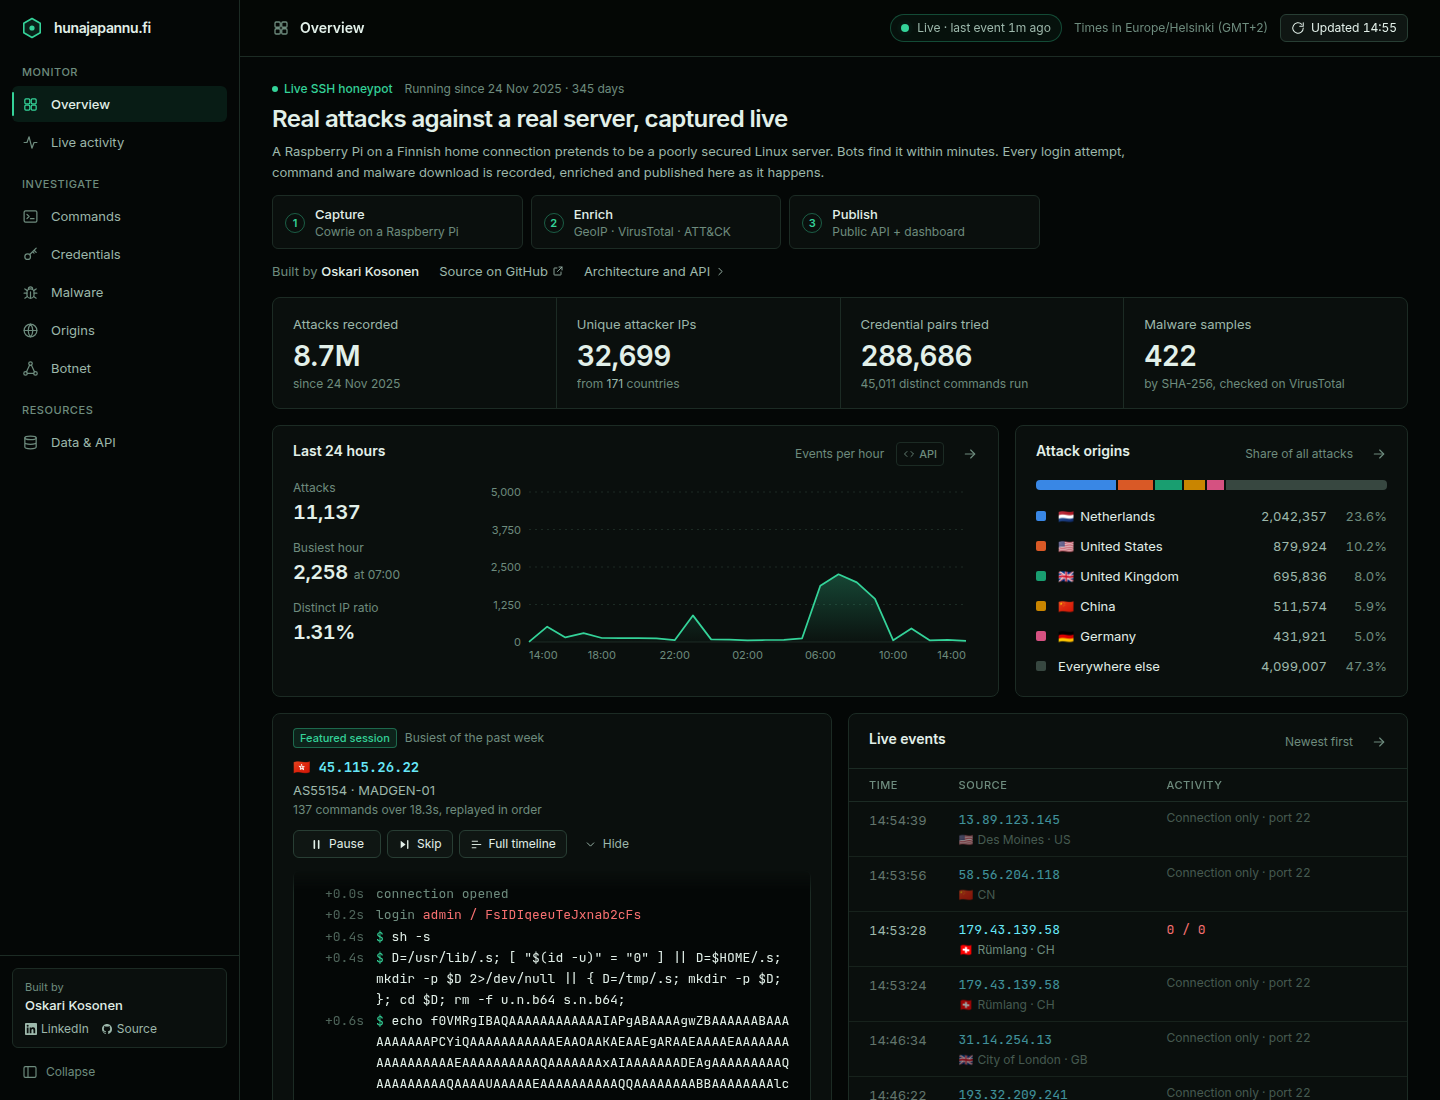
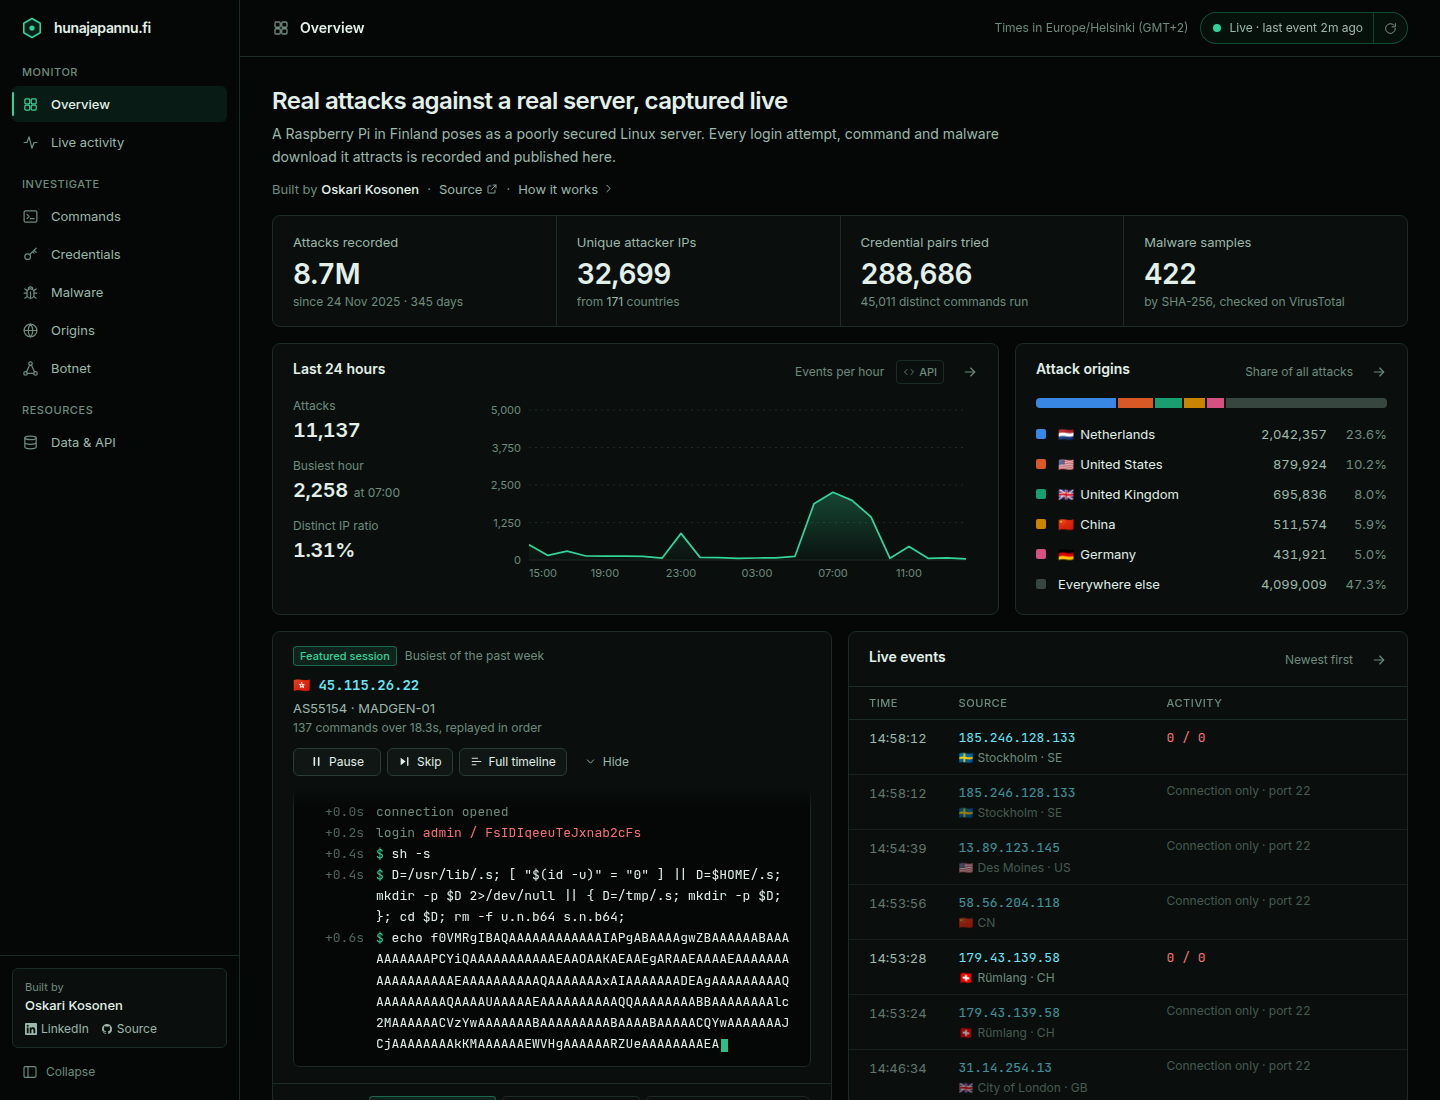
One live control in the top bar, and a three-line overview intro
- The status pill and the "Updated 14:42" button were two clocks
  answering the same question. They are now one control: the pill says
  how fresh the data is and carries an icon-only refresh, with the last
  refresh time on its tooltip.
- The overview intro drops everything that repeated something else on
  the same screen: the "Live SSH honeypot" eyebrow (the top bar says
  live), the "running since" line (now on the Attacks recorded tile), and
  the three pipeline cards (the Architecture panel shows the pipeline).
  What is left is a title, one sentence and a byline.

diff --git a/frontend/src/components/OverviewHero.jsx b/frontend/src/components/OverviewHero.jsx
@@ -1,98 +1,52 @@
 import { memo } from "react";
 import { ChevronRightIcon, ExternalIcon } from "./ui/icons";
-import { formatLongDate, formatNumber } from "../lib/format";
 
 /**
- * What this page is, in one screen.
+ * What this page is, said once.
  *
- * The site is linked from a CV, so the first visit is often someone who has
- * never heard of Cowrie and has thirty seconds. The page header says what it
- * is and who built it; the KPI strip under it gives the all-time scale; the
- * panels below are the live detail.
+ * The site is linked from a CV, so the first visitor may never have heard of
+ * a honeypot. A title, one sentence and a byline are enough to orient them;
+ * the KPI strip below gives the scale and the live status sits in the top
+ * bar. An earlier version also had an eyebrow, a "running since" line and a
+ * three-step pipeline here, all of which repeated something said elsewhere
+ * on the same screen.
  */
 
-const STEPS = [
-  { n: "1", title: "Capture", detail: "Cowrie on a Raspberry Pi" },
-  { n: "2", title: "Enrich", detail: "GeoIP · VirusTotal · ATT&CK" },
-  { n: "3", title: "Publish", detail: "Public API + dashboard" },
-];
+const LINK = "inline-flex items-center gap-1 text-fg-muted hover:text-fg transition-colors";
 
-const LINK = "inline-flex items-center gap-1 text-sm text-fg-muted hover:text-fg transition-colors";
-
-const daysSince = (ts) => {
-  const t = ts ? Date.parse(ts) : NaN;
-  return Number.isFinite(t) ? Math.max(1, Math.floor((Date.now() - t) / 86_400_000)) : null;
-};
-
-const OverviewHero = ({ summary, onNavigate }) => {
-  const days = daysSince(summary?.firstEventAt);
-
-  return (
-    <section aria-labelledby="overview-title">
-      <div className="min-w-0">
-        <div className="flex flex-wrap items-center gap-x-3 gap-y-1 text-xs text-fg-subtle">
-          <span className="inline-flex items-center gap-1.5 font-medium text-accent">
-            <span className="h-1.5 w-1.5 rounded-full bg-accent" />
-            Live SSH honeypot
-          </span>
-          {summary?.firstEventAt && (
-            <span>
-              Running since {formatLongDate(summary.firstEventAt)}
-              {days ? ` · ${formatNumber(days)} days` : ""}
-            </span>
-          )}
-        </div>
-
-        <h2 id="overview-title" className="mt-1.5 text-xl font-semibold tracking-tight text-fg sm:text-2xl">
-          Real attacks against a real server, captured live
-        </h2>
-        <p className="mt-1.5 max-w-4xl text-sm leading-relaxed text-fg-muted">
-          A Raspberry Pi on a Finnish home connection pretends to be a poorly secured Linux server. Bots find it
-          within minutes. Every login attempt, command and malware download is recorded, enriched and published
-          here as it happens.
-        </p>
-      </div>
-
-      <ol className="mt-3 grid max-w-3xl grid-cols-3 gap-2" aria-label="How it works">
-        {STEPS.map((s) => (
-          <li
-            key={s.n}
-            className="flex items-center gap-2 rounded-md border border-line bg-surface px-2.5 py-2 sm:gap-2.5 sm:px-3"
-          >
-            <span className="mt-px flex h-5 w-5 shrink-0 items-center justify-center rounded-full border border-accent/40 text-2xs font-semibold text-accent">
-              {s.n}
-            </span>
-            <span className="min-w-0">
-              <span className="block text-sm font-medium text-fg">{s.title}</span>
-              <span className="hidden truncate text-xs text-fg-subtle sm:block">{s.detail}</span>
-            </span>
-          </li>
-        ))}
-      </ol>
-
-      <div className="mt-3 flex flex-wrap items-center gap-x-5 gap-y-1.5">
-        <span className="text-sm text-fg-subtle">
-          Built by{" "}
-          <a
-            className="font-medium text-fg hover:text-accent transition-colors"
-            href="https://www.linkedin.com/in/oskari-kosonen-ba2589294/"
-            target="_blank"
-            rel="noreferrer"
-          >
-            Oskari Kosonen
-          </a>
-        </span>
-        <a className={LINK} href="https://github.com/OskariKosonen/hunajapannu" target="_blank" rel="noreferrer">
-          Source on GitHub
-          <ExternalIcon size={12} />
+const OverviewHero = ({ onNavigate }) => (
+  <section aria-labelledby="overview-title" className="pt-1">
+    <h2 id="overview-title" className="text-xl font-semibold tracking-tight text-fg sm:text-2xl">
+      Real attacks against a real server, captured live
+    </h2>
+    <p className="mt-1.5 max-w-3xl text-sm leading-relaxed text-fg-muted sm:text-base sm:leading-relaxed">
+      A Raspberry Pi in Finland poses as a poorly secured Linux server. Every login attempt, command and malware
+      download it attracts is recorded and published here.
+    </p>
+    <div className="mt-2.5 flex flex-wrap items-center gap-x-2 gap-y-1 text-sm text-fg-subtle">
+      <span>
+        Built by{" "}
+        <a
+          className="font-medium text-fg hover:text-accent transition-colors"
+          href="https://www.linkedin.com/in/oskari-kosonen-ba2589294/"
+          target="_blank"
+          rel="noreferrer"
+        >
+          Oskari Kosonen
         </a>
-        <button type="button" className={LINK} onClick={() => onNavigate("data")}>
-          Architecture and API
-          <ChevronRightIcon size={13} />
-        </button>
-      </div>
-    </section>
-  );
-};
+      </span>
+      <span aria-hidden="true">·</span>
+      <a className={LINK} href="https://github.com/OskariKosonen/hunajapannu" target="_blank" rel="noreferrer">
+        Source
+        <ExternalIcon size={12} />
+      </a>
+      <span aria-hidden="true">·</span>
+      <button type="button" className={LINK} onClick={() => onNavigate("data")}>
+        How it works
+        <ChevronRightIcon size={13} />
+      </button>
+    </div>
+  </section>
+);
 
 export default memo(OverviewHero);

diff --git a/frontend/src/components/AppHeader.jsx b/frontend/src/components/AppHeader.jsx
@@ -1,6 +1,5 @@
-import { memo } from "react";
+import { memo, useState } from "react";
 import Tabs from "./ui/Tabs";
-import Button from "./ui/Button";
 import { LogoMark, RefreshIcon } from "./ui/icons";
 import { cx } from "../lib/cx";
 import { useNow } from "../hooks/useRefresh";
@@ -11,7 +10,16 @@ import { TIME_ZONE, TIME_ZONE_LABEL, formatClock, formatRelative } from "../lib/
 // for four days while every service reported healthy.
 const STALE_AFTER_MS = 10 * 60 * 1000;
 
-const StatusPill = ({ lastEventAt, now }) => {
+/**
+ * Freshness and refresh as one control.
+ *
+ * These were a status pill ("Live · last event 3m ago") beside a button
+ * reading "Updated 14:42": two clocks answering the same question. The pill
+ * says how fresh the data is; the refresh is an icon on the end of it, and
+ * when the page last refreshed is on its tooltip for whoever wants it.
+ */
+const LiveControl = ({ lastEventAt, lastUpdated, onRefresh, now }) => {
+  const [spinning, setSpinning] = useState(false);
   const t = lastEventAt ? new Date(lastEventAt).getTime() : NaN;
   const known = Number.isFinite(t);
   const stale = known && now - t > STALE_AFTER_MS;
@@ -22,36 +30,56 @@ const StatusPill = ({ lastEventAt, now }) => {
       ? `No events for ${formatRelative(lastEventAt, now).replace(" ago", "")}`
       : `Live · last event ${formatRelative(lastEventAt, now)}`;
 
+  const refreshTitle = lastUpdated
+    ? `Refresh now · last refreshed ${formatClock(lastUpdated)}, automatic every 2 minutes`
+    : "Refresh now";
+
   return (
-    <span
-      role="status"
-      title={known ? `Newest event: ${new Date(t).toISOString()}` : undefined}
+    <div
       className={cx(
-        "inline-flex h-7 items-center gap-2 rounded-full border px-2.5 text-xs whitespace-nowrap tabular-nums",
+        "inline-flex h-8 items-center rounded-full border text-xs whitespace-nowrap tabular-nums",
         !known && "border-line text-fg-subtle",
         known && !stale && "border-accent/30 bg-accent/5 text-fg-muted",
         stale && "border-warn/40 bg-warn/10 text-warn"
       )}
     >
-      <span className="relative flex h-2 w-2">
-        {known && !stale && (
-          <span className="absolute inline-flex h-full w-full rounded-full bg-accent opacity-60 motion-safe:animate-ping" />
-        )}
-        <span
-          className={cx(
-            "relative inline-flex h-2 w-2 rounded-full",
-            !known ? "bg-fg-subtle" : stale ? "bg-warn" : "bg-accent"
+      <span
+        role="status"
+        title={known ? `Newest event: ${new Date(t).toISOString()}` : undefined}
+        className="flex items-center gap-2 pl-3 pr-2.5"
+      >
+        <span className="relative flex h-2 w-2">
+          {known && !stale && (
+            <span className="absolute inline-flex h-full w-full rounded-full bg-accent opacity-60 motion-safe:animate-ping" />
           )}
-        />
+          <span
+            className={cx(
+              "relative inline-flex h-2 w-2 rounded-full",
+              !known ? "bg-fg-subtle" : stale ? "bg-warn" : "bg-accent"
+            )}
+          />
+        </span>
+        {label}
       </span>
-      {label}
-    </span>
+      <button
+        type="button"
+        onClick={() => {
+          onRefresh();
+          setSpinning(true);
+          setTimeout(() => setSpinning(false), 700);
+        }}
+        aria-label="Refresh data"
+        title={refreshTitle}
+        className="flex h-full items-center rounded-r-full border-l border-inherit px-2.5 opacity-80 hover:bg-surface-2 hover:opacity-100 transition-colors"
+      >
+        <RefreshIcon size={13} className={spinning ? "motion-safe:animate-spin" : ""} />
+      </button>
+    </div>
   );
 };
 
 const Controls = ({ lastEventAt, lastUpdated, onRefresh, now }) => (
-  <div className="ml-auto flex items-center gap-2 sm:gap-3 min-w-0">
-    <StatusPill lastEventAt={lastEventAt} now={now} />
+  <div className="ml-auto flex items-center gap-3 min-w-0">
     <span
       className="hidden xl:inline text-xs text-fg-subtle whitespace-nowrap"
       title="All timestamps are shown in your local timezone"
@@ -59,17 +87,7 @@ const Controls = ({ lastEventAt, lastUpdated, onRefresh, now }) => (
       Times in {TIME_ZONE}
       {TIME_ZONE_LABEL ? ` (${TIME_ZONE_LABEL})` : ""}
     </span>
-    <Button
-      variant="secondary"
-      onClick={onRefresh}
-      title={lastUpdated ? `Last updated ${formatClock(lastUpdated)} · refreshes every 2 minutes` : "Refresh"}
-      aria-label="Refresh data"
-    >
-      <RefreshIcon size={14} />
-      <span className="hidden sm:inline tabular-nums">
-        {lastUpdated ? `Updated ${formatClock(lastUpdated)}` : "Refresh"}
-      </span>
-    </Button>
+    <LiveControl lastEventAt={lastEventAt} lastUpdated={lastUpdated} onRefresh={onRefresh} now={now} />
   </div>
 );
 

diff --git a/frontend/src/components/KpiStrip.jsx b/frontend/src/components/KpiStrip.jsx
@@ -1,6 +1,11 @@
 import { memo } from "react";
 import { formatCompact, formatLongDate, formatNumber } from "../lib/format";
 
+const daysSince = (ts) => {
+  const t = ts ? Date.parse(ts) : NaN;
+  return Number.isFinite(t) ? Math.max(1, Math.floor((Date.now() - t) / 86_400_000)) : null;
+};
+
 /** One tile: label, the figure, one line of context. */
 const Tile = ({ label, value, title, hint, loading }) => (
   <div className="min-w-0 bg-surface px-4 py-3.5 sm:px-5 sm:py-4">
@@ -33,7 +38,11 @@ const KpiStrip = ({ summary: s, loading }) => (
       loading={loading}
       value={formatCompact(s?.lifetimeEvents)}
       title={`${formatNumber(s?.lifetimeEvents)} events`}
-      hint={s?.firstEventAt ? `since ${formatLongDate(s.firstEventAt)}` : "all time"}
+      hint={
+        s?.firstEventAt
+          ? `since ${formatLongDate(s.firstEventAt)} · ${formatNumber(daysSince(s.firstEventAt))} days`
+          : "all time"
+      }
     />
     <Tile
       label="Unique attacker IPs"

diff --git a/frontend/src/views/OverviewView.jsx b/frontend/src/views/OverviewView.jsx
@@ -78,7 +78,7 @@ const OverviewView = ({ onOpenSession, onNavigate }) => {
   return (
     <div className="space-y-4">
       <ErrorBoundary name="Introduction">
-        <OverviewHero summary={summary} onNavigate={onNavigate} />
+        <OverviewHero onNavigate={onNavigate} />
       </ErrorBoundary>
 
       {summaryApi.error && !summary && <ErrorNotice>Failed to load summary: {summaryApi.error}</ErrorNotice>}
